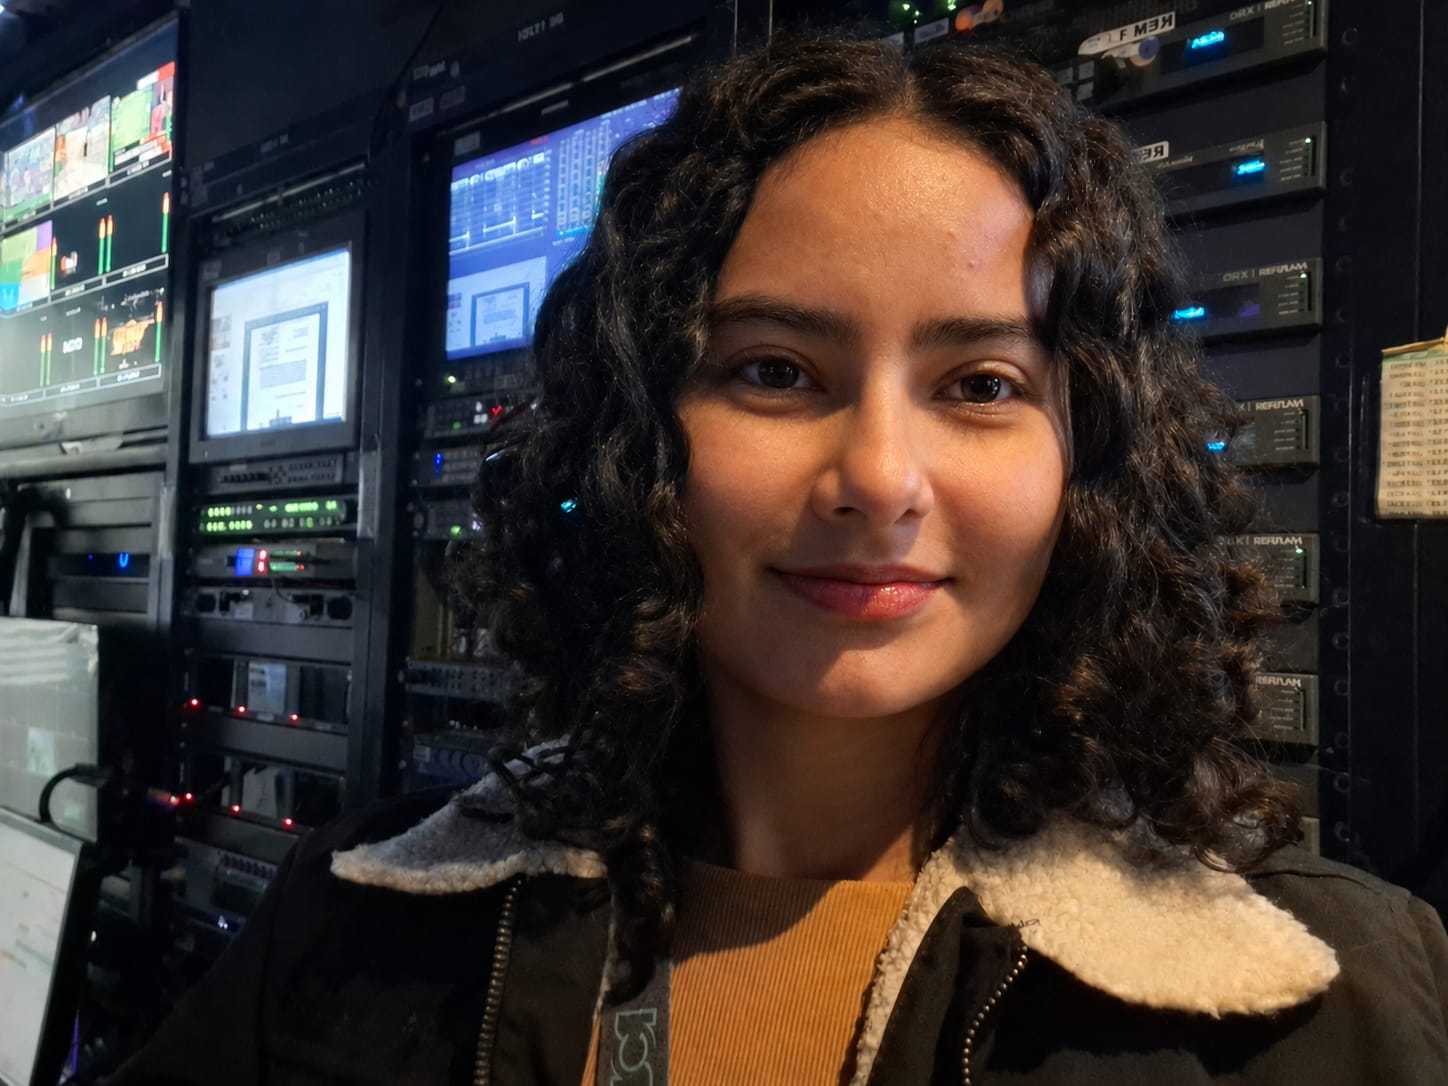
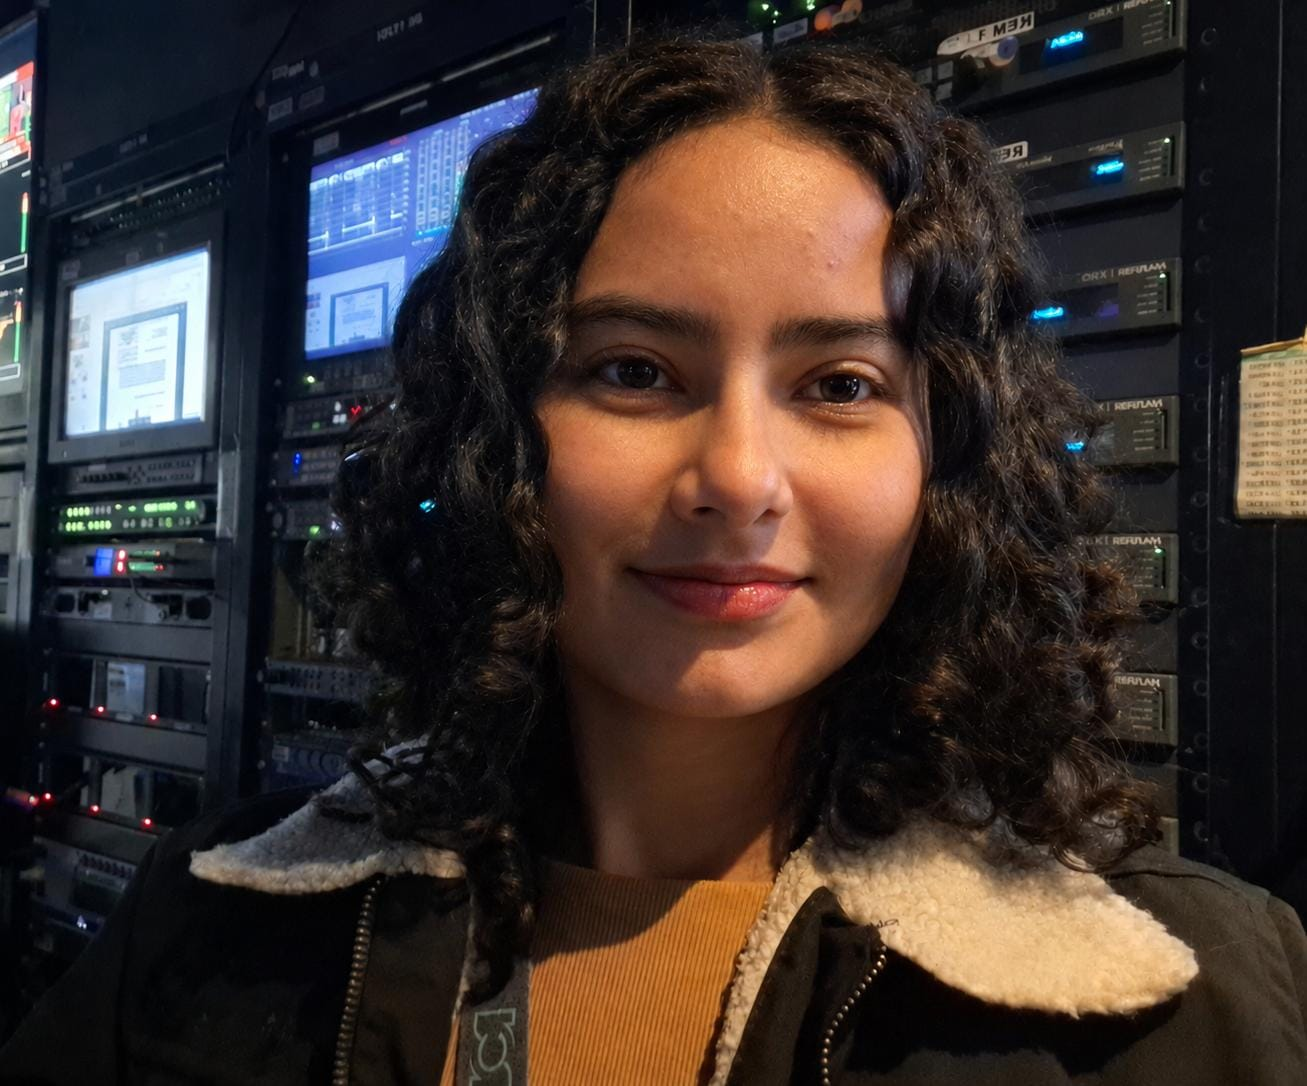
Style portfolio header and hero section

diff --git a/index.html b/index.html
@@ -4,15 +4,28 @@
     <meta charset="UTF-8">
     <meta name="viewport" content="width=device-width, initial-scale=1.0">
     <title>Portafolio Angelica Saenz</title>
+
+    <link rel="stylesheet" href="style.css">
+    <link rel="icon" href="assets/img/favicon.png" type="image/png">
+    <link rel="preconnect" href="https://fonts.googleapis.com">
+    <link rel="preconnect" href="https://fonts.gstatic.com" crossorigin>
+    <link href="https://fonts.googleapis.com/css2?family=Lora:wght@400;500;600&family=Playfair+Display:wght@600;700&display=swap" rel="stylesheet">
 </head>
 
 <body>
     <header>
-    <h1>Angélica Sáenz</h1>
+    <div class="logo">
+        <img src="assets/img/favicon.png" alt="Logo de Angélica Sáenz">
+        <div class="logo-texto">
+            <h1>Angélica Sáenz</h1>
+            <p class="desc">Software Engineering Student</p>
+        </div>
+    </div>
+
     <nav>
-        <ul>
+        <ul class="menu">
             <li>
-                <a href="#">Inicio</a>
+                <a href="#" >Inicio</a>
             </li>
             <li>
                 <a href="#sobre-mi">Sobre mí</a>
@@ -38,17 +51,19 @@
 <main>
     <section id="sobre-mi" class="hero">
         <h2>Sobre mí</h2>
-        <img src="assets/img/foto.jpeg" alt="Foto de Angélica Sáenz">
-        <p>
-            Soy Angélica Sáenz, estudiante de Ingeniería de Software y técnica en sistemas. Me caracterizo por ser una persona con muchas ganas de aprender, comprometida con mi crecimiento profesional y apasionada por la tecnología. Actualmente estoy fortaleciendo mis conocimientos en desarrollo de software, especialmente en Java, Spring Boot y desarrollo web, mientras construyo proyectos que me permiten aplicar lo aprendido y seguir desarrollando mis habilidades.
-        </p>
+        <div class="hero-contenido">
+            <p>
+                Soy Angélica Sáenz, estudiante de Ingeniería de Software y técnica en sistemas. Me caracterizo por ser una persona con muchas ganas de aprender, comprometida con mi crecimiento profesional y apasionada por la tecnología. Actualmente estoy fortaleciendo mis conocimientos en desarrollo de software, especialmente en Java, Spring Boot y desarrollo web, mientras construyo proyectos que me permiten aplicar lo aprendido y seguir desarrollando mis habilidades.
+            </p>
+            <img src="assets/img/foto.jpeg" alt="Foto de Angélica Sáenz">
+        </div>
         <a href="assets/pdf/hoja-de-vida-angelica-saenz.pdf" download>
-            Descargar CV
+                Descargar CV
         </a>
     </section>
     <section id="tecnologias">
         <h2>Tecnologías</h2>
-        <ul>
+        <ul class="tecnologias">
             <li>Java</li>
             <li>SpringBoot</li>
             <li>Git y GitHub</li>
@@ -123,7 +138,7 @@
         <h2>Contacto</h2>
         <p>Si deseas conocer más sobre mi trabajo, colaborar en un proyecto o ponerte en contacto conmigo,
             puedes encontrarme en las siguientes plataformas:</p>
-        <ul>
+        <ul class="redes">
         <li>
             <a href="https://github.com/angelicasaenz" target="_blank" rel="noopener noreferrer">GitHub</a>
         </li>

diff --git a/style.css b/style.css
@@ -1,0 +1,116 @@
+/* Reset */
+*{
+    margin: 0;
+    padding: 0;
+    box-sizing: border-box;
+}
+/* Body */
+
+body{
+    font-family: "Lora", serif;
+    background-color: #111111;
+    color: #f5f5f5;
+    line-height: 1.6;
+}
+
+/* Header */
+
+header {
+    display: flex;
+    padding: 30px;
+    justify-content: space-between;
+    align-items: center;
+}
+
+.menu {
+    list-style: none;
+    display: flex;
+    gap: 30px;
+    align-items: center;
+}
+
+
+.menu a:hover{
+    color: #9029c7;
+    font-weight: bold;
+}
+
+/* Logo */
+
+.logo{
+    display: flex;
+    align-items: center;
+    gap: 10px;
+}
+
+.logo img{
+    width: 60px;
+}
+.logo-texto {
+    display: flex;
+    flex-direction: column;
+}
+/* Tipografía */
+
+h1{
+    font-family: "Playfair Display", serif;
+}
+h2, h3, h4{
+    font-family: "Playfair Display", serif;
+}
+/* Elementos */
+
+
+section {
+    padding: 30px 80px;
+}
+
+article {
+    padding: 20px 30px;
+}
+
+a {
+    color: #9029c7;
+    text-decoration: none;
+}
+
+/* Hero */
+/* Foto */
+.hero img{
+    width: 200px;
+    height: 200px;
+    border-radius: 50%;
+    object-fit: cover;
+}
+
+.hero-contenido {
+    display: flex;
+    justify-content: space-between;
+    align-items: center;
+    gap: 40px;
+    padding: 15px 10px 10px 10px;
+}
+.hero-texto{
+    max-width: 700px;
+}
+/* Tecnologías */
+
+/* Proyectos */
+
+/* Experiencia */
+
+/* Footer */
+
+
+
+
+
+
+
+
+
+
+
+
+
+
